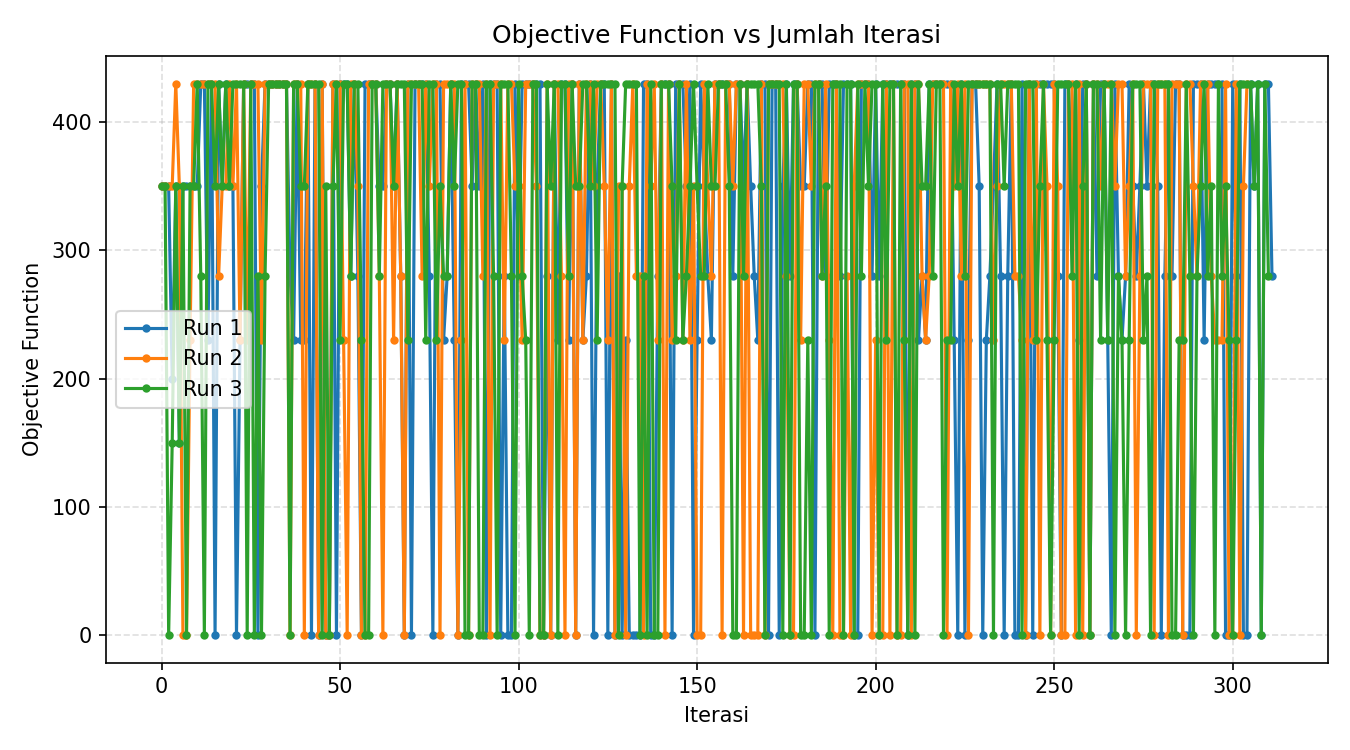
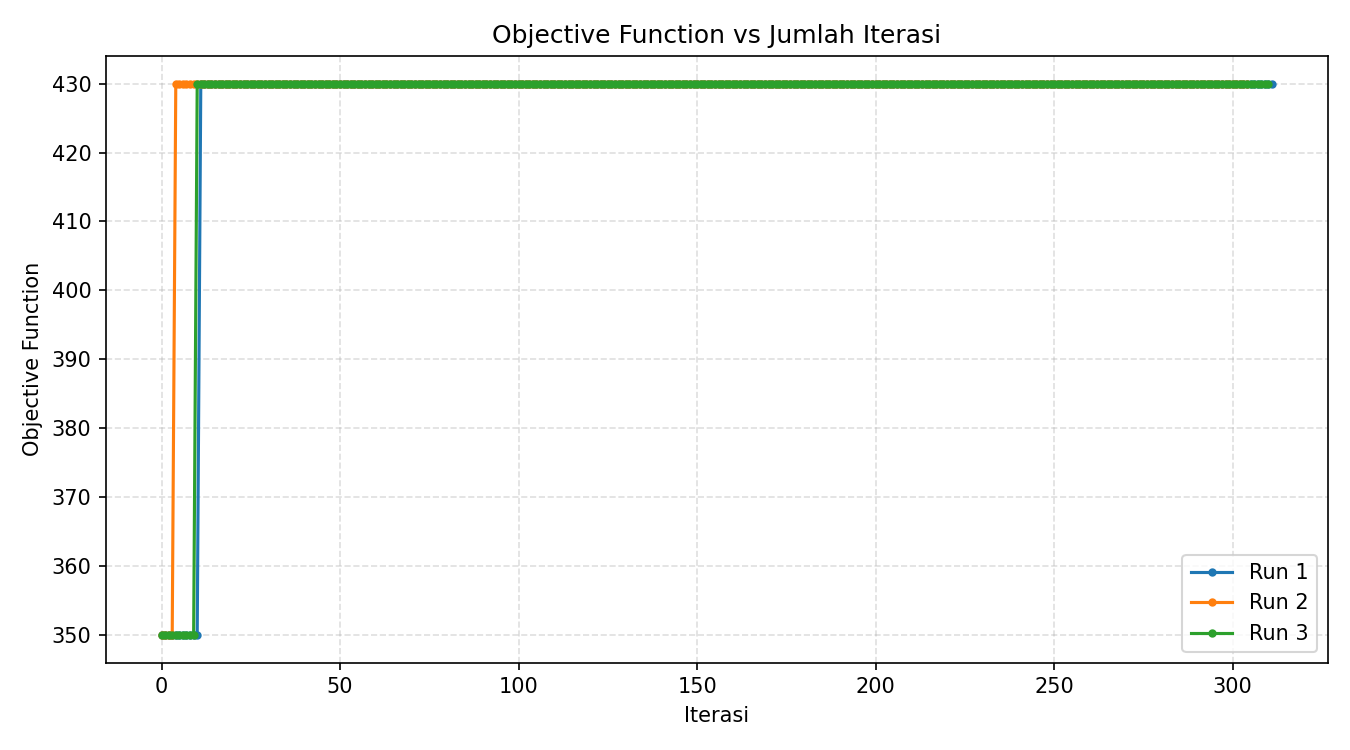
fix(hill-climbing): record monotonic current_score in history and ensure deepcopy for neighbor states

diff --git a/src/hill_climbing.py b/src/hill_climbing.py
@@ -72,18 +72,21 @@ def hill_climbing(awal, ship, max_eval=3000, max_stuck=300):
     
     while iterasi < max_eval and stuck < max_stuck:
         iterasi += 1
+        # Gunakan copy.deepcopy() saat membuat neighbor agar tidak terjadi in-place mutation
         tetangga = get_random_neighbor(state_sekarang, ship)
         skor_tetangga = objective_function(tetangga, ship)
-        history.append(skor_tetangga)
         
-        # Kalau dapat yang lebih bagus, pindah
+        # Kriteria penerimaan solusi: current_state HANYA di-update jika neighbor_score > current_score
         if skor_tetangga > skor:
-            state_sekarang = tetangga
+            state_sekarang = copy.deepcopy(tetangga)
             skor = skor_tetangga
             stuck = 0
             print(f"[{iterasi}] Pindah. Skor Baru: {skor}")
         else:
             stuck += 1
+
+        # List history mencatat current_score (skor terbaik saat itu di setiap iterasi), BUKAN neighbor_score acaknya
+        history.append(skor)
             
     lama = time.process_time() - t0
     skor_awal = history[0]
